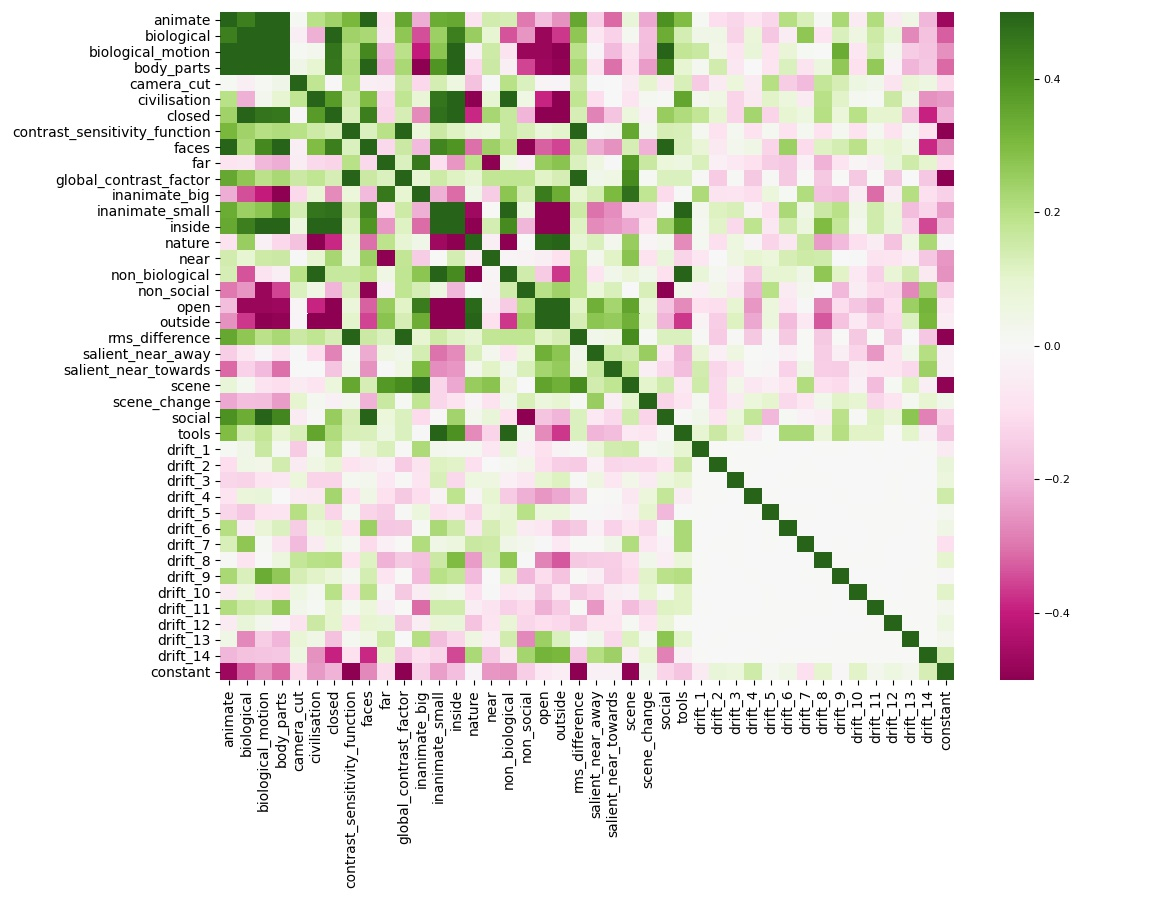
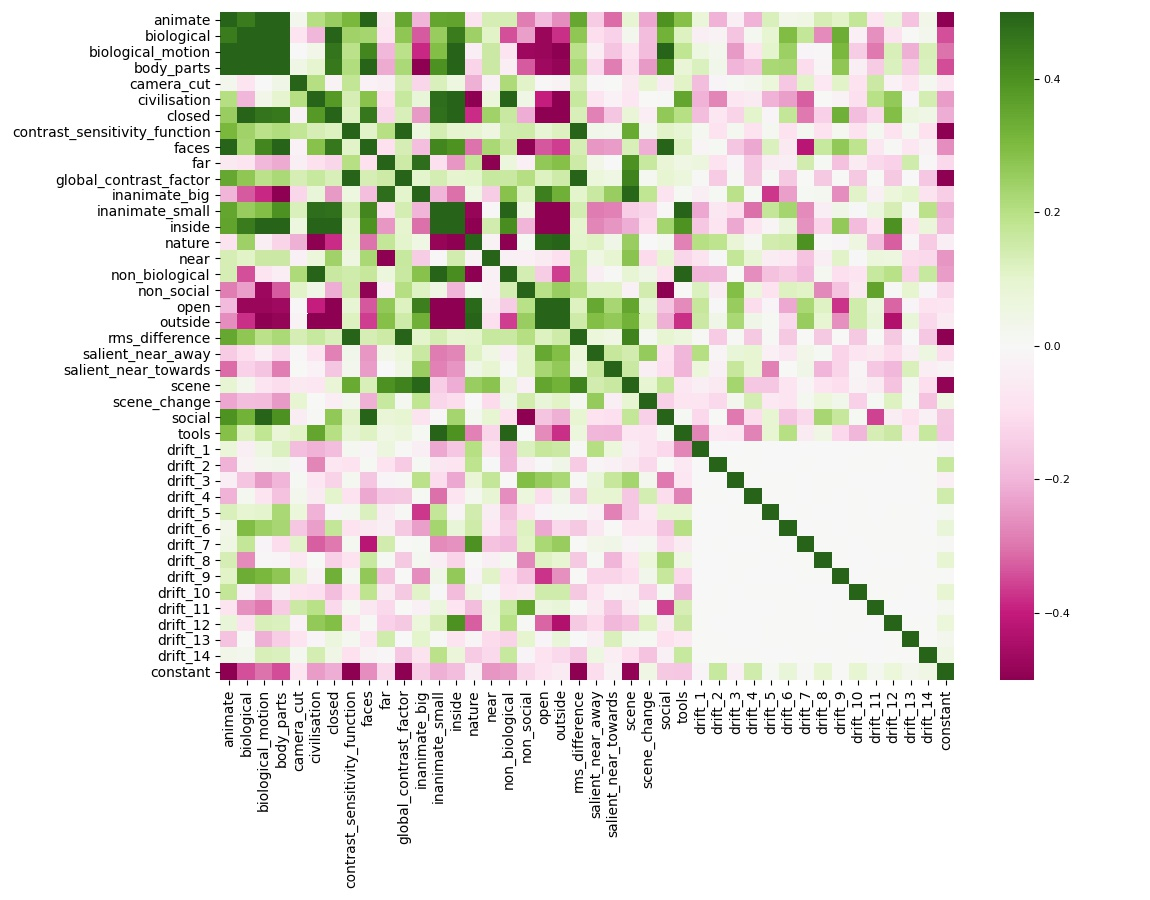
changed to 14 movies - shortlist

diff --git a/model_efficiency.py b/model_efficiency.py
@@ -81,7 +81,7 @@ def get_abbrev(val):
         val = val.replace(k,v)
     return val
 
-def optimise_efficiency(events_in, todrop= None, con_list_type='boiled_down_5', nscans=None, tr=1, save_figures=False, all_trial_type=None, design_matrix_type = 'all' ):
+def optimise_efficiency(events_in, todrop= None, con_list_type='boiled_down_5', nscans=None, tr=1, save_figures=False, all_trial_type=None, design_matrix_type = 'all', target_movies=8 ):
     '''
     Parameters
         events_in: dict, with keys of movie name, and values a pandas dataframe describing the design
@@ -305,11 +305,11 @@ def find_optimal_movies(nits=1, target_movies=8, design_matrix_type='all', con_l
         res = res.append({'iteration':it, 'movies':keys, 'zstat':zstat}, ignore_index=True)
         print(f'Iteration {it} final set is {keys}' )
 
-    with open(f'model_effiency_select_movies_desmat_{design_matrix_type}_con_{con_list_type}.csv','w') as f:
+    with open(f'model_effiency_select_movies_desmat_{design_matrix_type}_con_{con_list_type}_target_movies_{target_movies}.csv','w') as f:
         res.to_csv(f)
 
 
-def all_movie_analysis(con_list_type= 'boiled_down_5', event_type = 'movies', design_matrix_type='all'):
+def all_movie_analysis(con_list_type= 'boiled_down_5', event_type = 'movies', design_matrix_type='all', target_movies=8):
     # Get event model.
     if event_type == 'henson':
         events, des = get_henson_events()
@@ -319,7 +319,7 @@ def all_movie_analysis(con_list_type= 'boiled_down_5', event_type = 'movies', de
         nscans = None # calculated from events
 
 
-    zstat = optimise_efficiency(events, save_figures=True, con_list_type = con_list_type, design_matrix_type=design_matrix_type)
+    zstat = optimise_efficiency(events, save_figures=True, con_list_type = con_list_type, design_matrix_type=design_matrix_type, target_movies=8)
     print(f'All movies {zstat}')
 
 if __name__=='__main__':
@@ -329,9 +329,9 @@ if __name__=='__main__':
     # Run once with figures
     # all_movie_analysis(con_list_type = 'all_trial_type', design_matrix_type = 'percontrast')
     # all_movie_analysis(con_list_type = 'boiled_down_5', design_matrix_type = 'all')
-#    all_movie_analysis(con_list_type = 'all_trial_type_random_weight', design_matrix_type = 'blockpermovie')
+    all_movie_analysis(con_list_type = 'all_trial_type_random_weight', design_matrix_type = 'blockpermovie', target_movies=14)
     
     # Assume each voxel of simulated brain activating with random weights on each tagged column, but that we're analysing for differences across movies
     #  We do an F-test for the effect of movie
     #  Then optimise subset of movies to maxmise this
-    find_optimal_movies(con_list_type = 'all_trial_type_random_weight', design_matrix_type = 'blockpermovie', nits=100)
+    find_optimal_movies(con_list_type = 'all_trial_type_random_weight', design_matrix_type = 'blockpermovie', nits=100, target_movies=14)

diff --git a/summarize_select_movies.py b/summarize_select_movies.py
@@ -6,7 +6,7 @@ from matplotlib import pyplot as plt
 movies = []
 movies8 = []
 #with open('model_efficiency_select_movies_set2.csv','r') as f:
-with open('model_effiency_select_movies_desmat_blockpermovie_con_all_trial_type_random_weight.csv','r') as f:
+with open('model_effiency_select_movies_desmat_blockpermovie_con_all_trial_type_random_weight_set2.csv','r') as f:
 
     df = pd.read_csv(f)
     
@@ -25,7 +25,7 @@ with open('model_effiency_select_movies_desmat_blockpermovie_con_all_trial_type_
     plt.bar(dist_order, [dist[x] for x in dist_order])
     plt.xticks(rotation=90)
     plt.tight_layout()
-    plt.savefig('movie_efficiency_select_movies_bar.jpg')
+    plt.savefig('movie_efficiency_select_movies_bar_set2.jpg')
 
 
     # What is the most common combination of eight movies?
